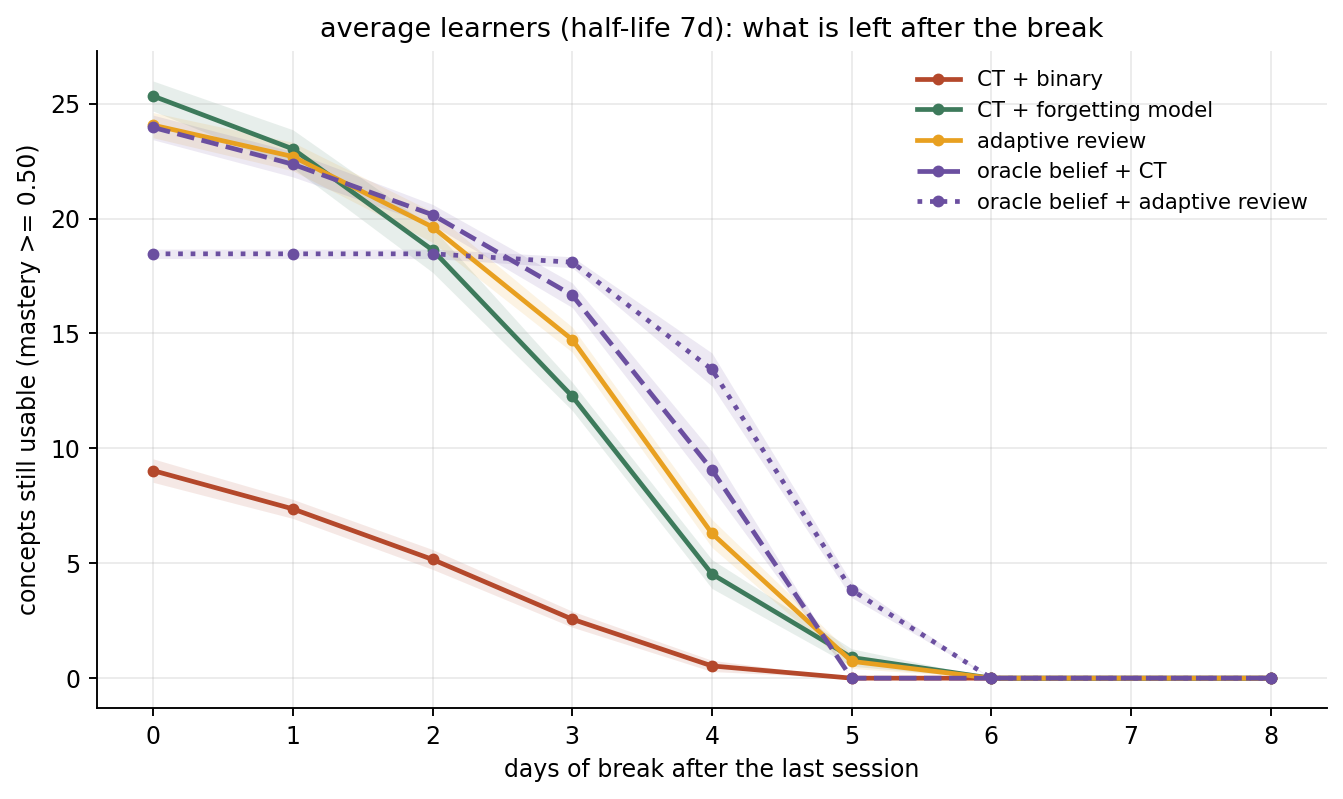
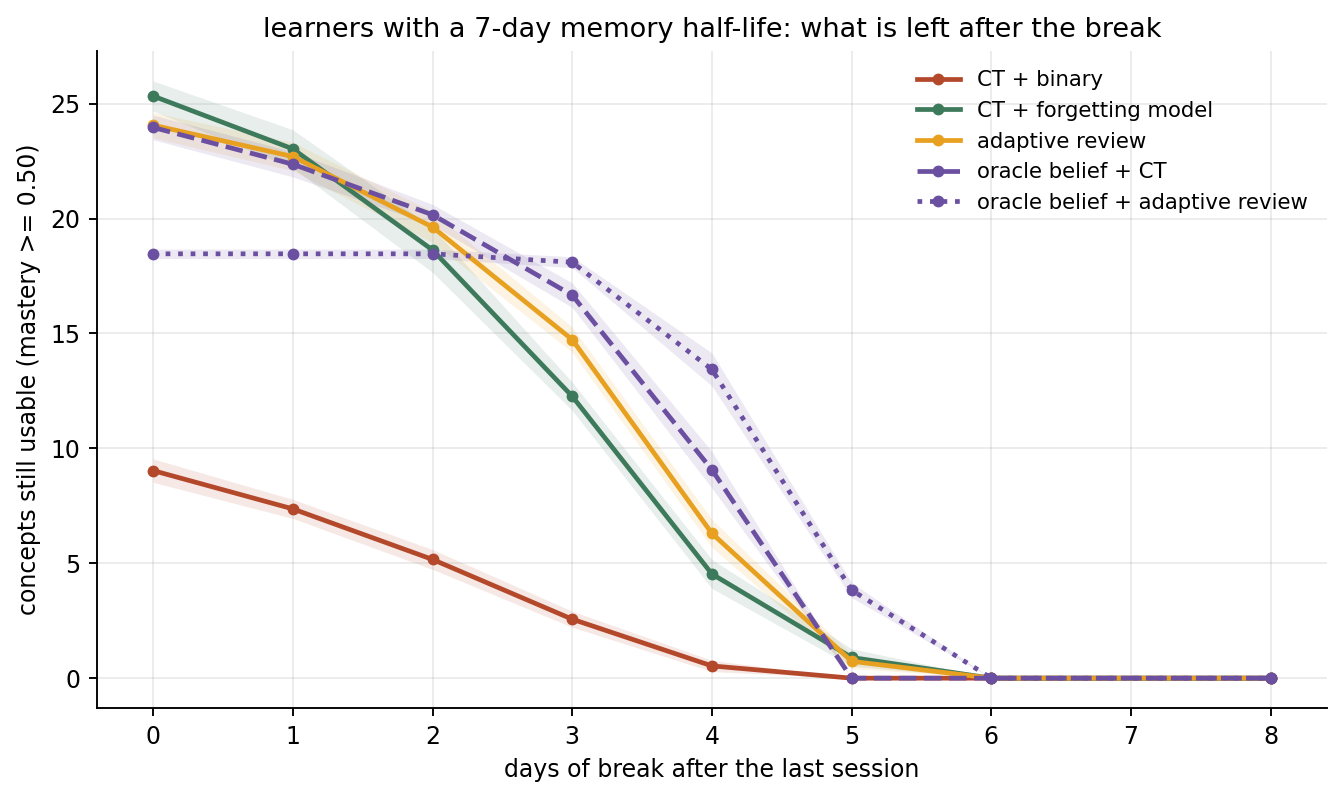
Label break-sweep figures by memory half-life, not by profile name

Changed region(s): [[0.1832, 0.0, 0.8548, 0.0601]]

diff --git a/experiments/forgetting/break_sweep.py b/experiments/forgetting/break_sweep.py
@@ -40,7 +40,7 @@ def break_sweep(n_learners=30, break_days=BREAKS, profile="average",
     break_days = tuple(break_days)
     over = ({"forget_half_life_days": half_life_days}
             if half_life_days else None)
-    who = (f"{profile} learners (half-life {half_life_days}d)"
+    who = (f"learners with a {half_life_days}-day memory half-life"
            if half_life_days else f"{profile} learners")
     arms = [*THREE_TUTORS, *ORACLES]
     res = {label: run_condition(

diff --git a/results/break_sweep_slow/summary.md b/results/break_sweep_slow/summary.md
@@ -1,6 +1,6 @@
 # break_sweep_slow
 
-30 average learners (half-life 28d) on layered_40. Best real tutor changes: CT + binary -> CT + forgetting model between 7d and 14d; CT + forgetting model -> adaptive review between 18d and 21d. Best oracle reference minus the best real tutor ranges -9.1 to 6.2 concepts.
+30 learners with a 28-day memory half-life on layered_40. Best real tutor changes: CT + binary -> CT + forgetting model between 7d and 14d; CT + forgetting model -> adaptive review between 18d and 21d. Best oracle reference minus the best real tutor ranges -9.1 to 6.2 concepts.
 
 ## curves
 

diff --git a/results/break_sweep_forgetful/summary.md b/results/break_sweep_forgetful/summary.md
@@ -1,6 +1,6 @@
 # break_sweep_forgetful
 
-30 average learners (half-life 7d) on layered_40. Best real tutor changes: CT + forgetting model -> adaptive review between 1d and 2d. Best oracle reference minus the best real tutor ranges -1.4 to 7.1 concepts.
+30 learners with a 7-day memory half-life on layered_40. Best real tutor changes: CT + forgetting model -> adaptive review between 1d and 2d. Best oracle reference minus the best real tutor ranges -1.4 to 7.1 concepts.
 
 ## curves
 
